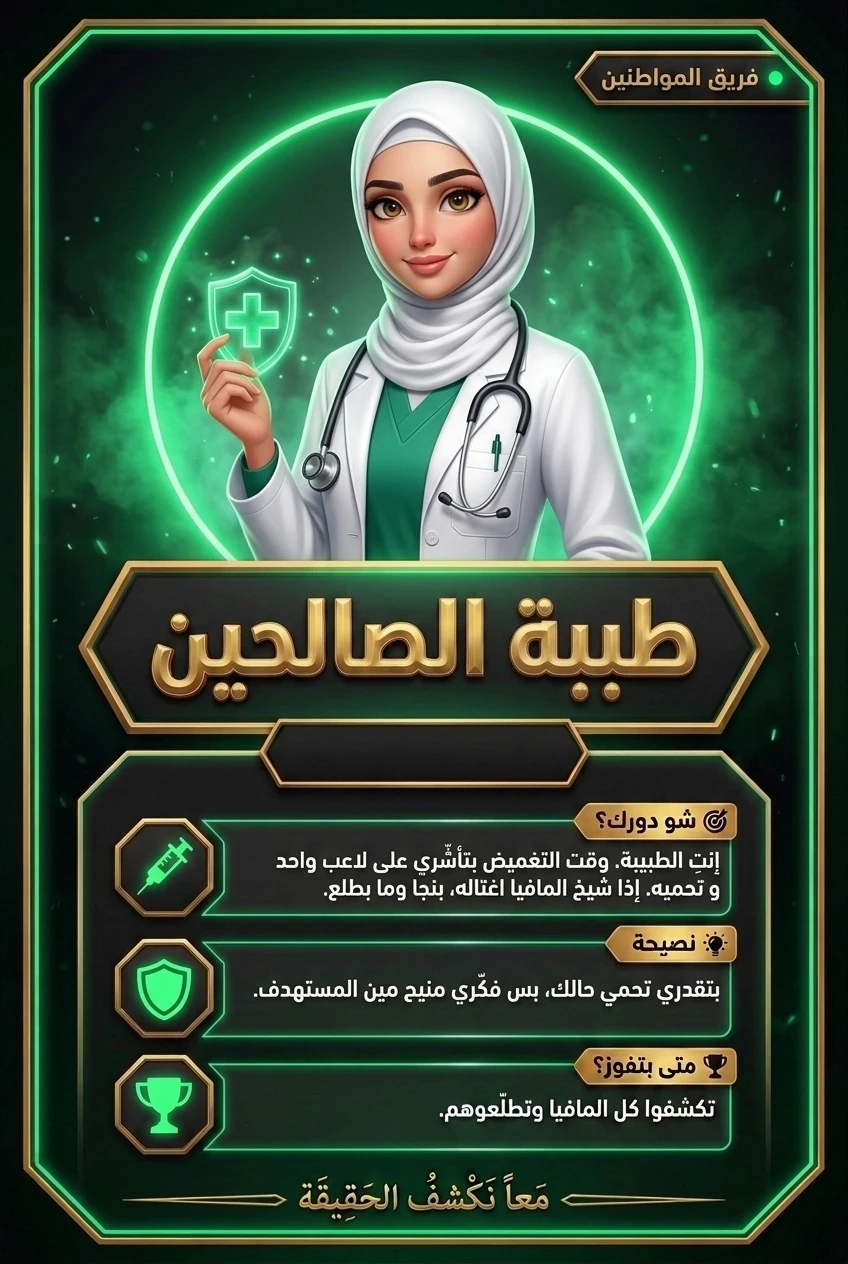
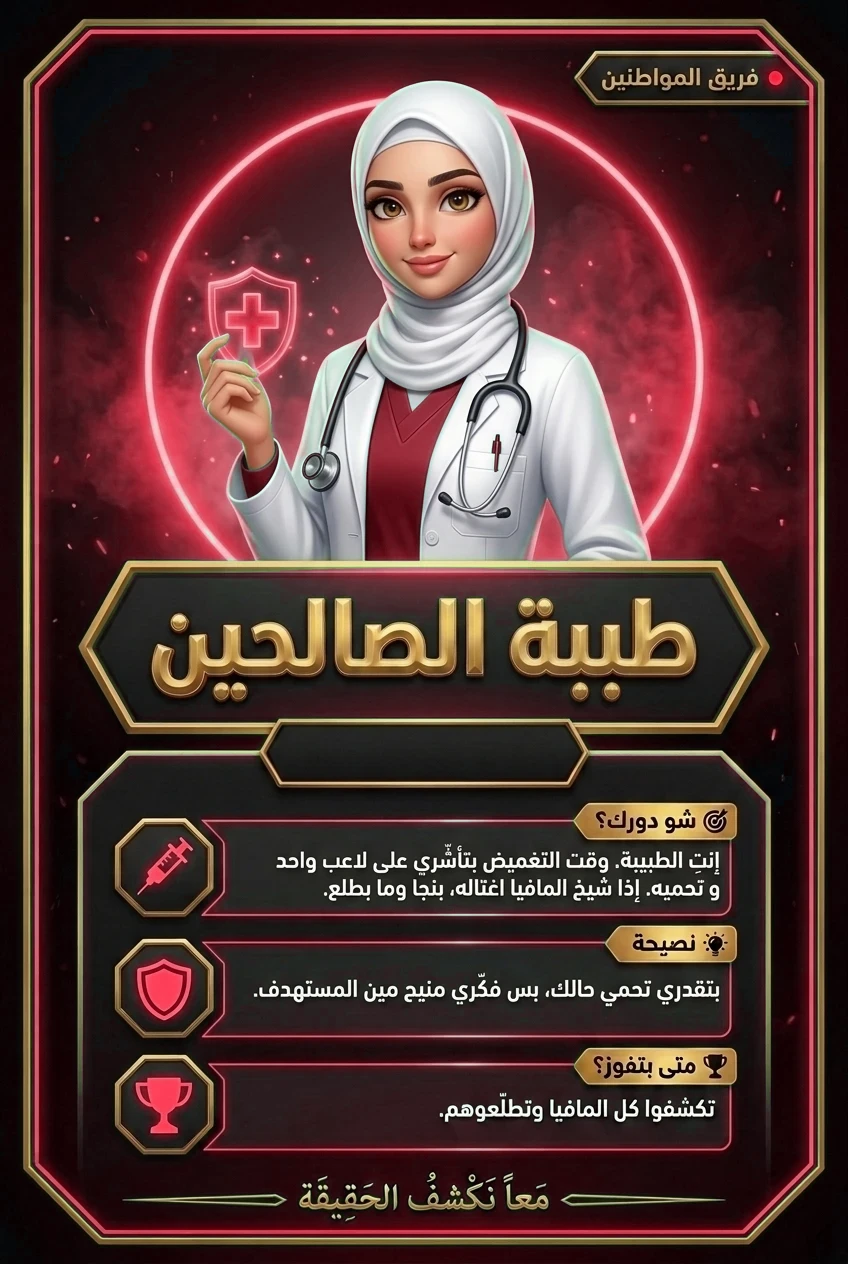
Unify all card colors to red
Recolor town card images from green to the mafia red and use the same
red background on the card screen for both teams.

diff --git a/public/index.html b/public/index.html
@@ -77,7 +77,7 @@ label{font-size:14px;color:var(--muted);font-weight:600}
 #card{position:fixed;inset:0;display:none;flex-direction:column;align-items:center;justify-content:center;gap:12px;
   padding:calc(10px + env(safe-area-inset-top)) 10px calc(12px + env(safe-area-inset-bottom));overflow:hidden}
 #card.on{display:flex}
-#card.town{background:radial-gradient(90% 60% at 50% 30%,#0b3a22 0%,#03140b 60%,#010604 100%)}
+#card.town{background:radial-gradient(90% 60% at 50% 30%,#3d0710 0%,#160307 60%,#060102 100%)}
 #card.mafia{background:radial-gradient(90% 60% at 50% 30%,#3d0710 0%,#160307 60%,#060102 100%)}
 /* الكرت صورة كاملة بنسبة 848×1264، وبتكبر لأكبر حجم بيوسع بالشاشة مع الزر */
 .cardimg{position:relative;container-type:inline-size;aspect-ratio:848/1264;
